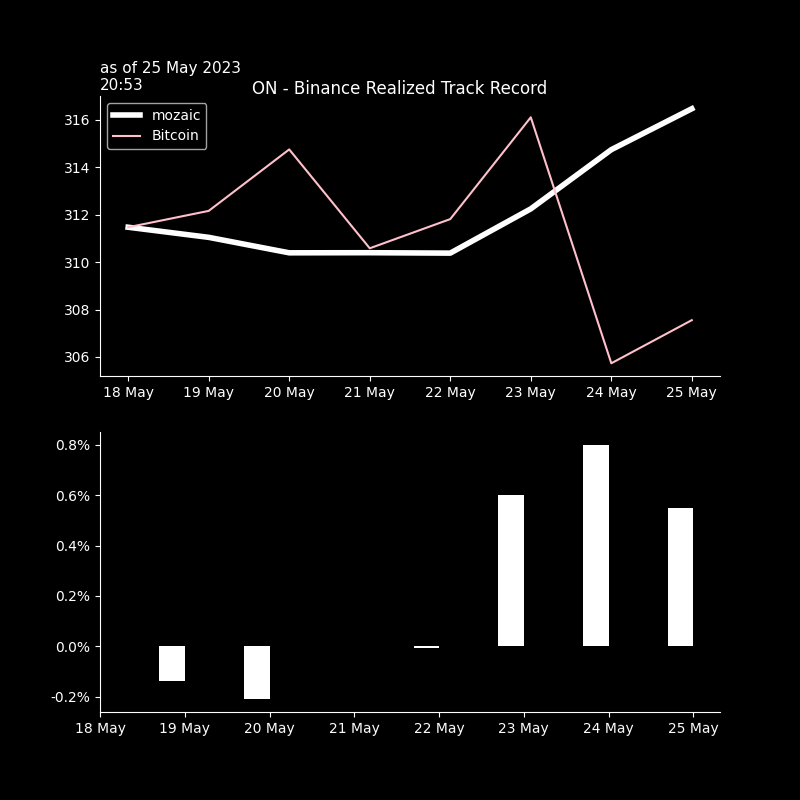
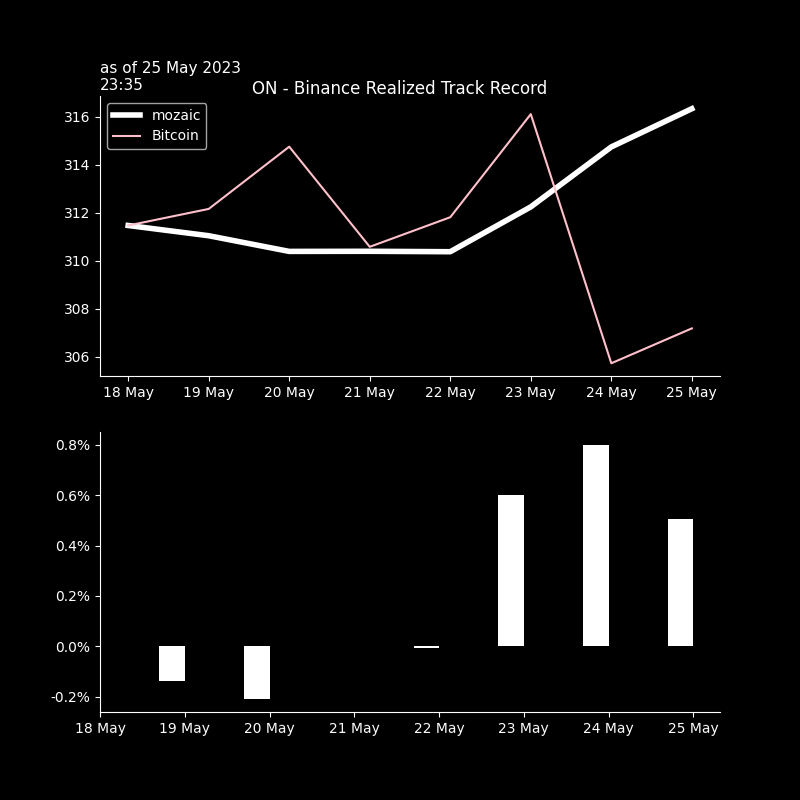
seb_commit

diff --git a/crypto/graphs/bt_trades_book.htmltrade_trades_book.html b/crypto/graphs/bt_trades_book.htmltrade_trades_book.html
@@ -37,55 +37,55 @@
   </thead>
   <tbody>
     <tr>
-      <th>ETHUSDT</th>
-      <td>1806.3000</td>
-      <td>2023-05-25 18:35:03</td>
-      <td>0.087</td>
-      <td>$157.1</td>
-      <td>$0.03</td>
-      <td>2.0</td>
-      <td>0.0</td>
-      <td>1804.51500</td>
-      <td>2023-05-25 19:32</td>
-      <td>-0.2</td>
-      <td>-10.0</td>
-      <td>1804.84</td>
-      <td>-0.1</td>
-      <td>-8.0</td>
-    </tr>
-    <tr>
       <th>XRPUSDT</th>
-      <td>0.4488</td>
-      <td>2023-05-25 18:36:00</td>
-      <td>351.000</td>
-      <td>$157.5</td>
-      <td>$0.03</td>
+      <td>0.4527</td>
+      <td>2023-05-25 22:35:01</td>
+      <td>-438.500</td>
+      <td>$-198.5</td>
+      <td>$0.04</td>
       <td>2.0</td>
-      <td>0.0</td>
-      <td>0.44845</td>
-      <td>2023-05-25 19:32</td>
+      <td>1.4</td>
+      <td>0.45285</td>
+      <td>2023-05-25 23:31</td>
       <td>-0.1</td>
-      <td>-8.0</td>
-      <td>.4487</td>
+      <td>-4.0</td>
+      <td>.4528</td>
       <td>-0.0</td>
-      <td>-3.0</td>
+      <td>-2.0</td>
     </tr>
     <tr>
       <th>BTCUSDT</th>
-      <td>26376.7000</td>
-      <td>2023-05-25 18:35:03</td>
-      <td>0.006</td>
-      <td>$158.3</td>
+      <td>26446.7000</td>
+      <td>2023-05-25 22:33:02</td>
+      <td>-0.006</td>
+      <td>$-158.7</td>
       <td>$0.03</td>
       <td>2.0</td>
-      <td>0.0</td>
-      <td>26366.35000</td>
-      <td>2023-05-25 19:32</td>
+      <td>0.4</td>
+      <td>26453.65000</td>
+      <td>2023-05-25 23:31</td>
+      <td>-0.0</td>
+      <td>-3.0</td>
+      <td>26431.6</td>
+      <td>0.1</td>
+      <td>6.0</td>
+    </tr>
+    <tr>
+      <th>ETHUSDT</th>
+      <td>1806.1200</td>
+      <td>2023-05-25 22:33:40</td>
+      <td>-0.087</td>
+      <td>$-157.1</td>
+      <td>$0.03</td>
+      <td>2.0</td>
+      <td>-0.0</td>
+      <td>1806.84500</td>
+      <td>2023-05-25 23:31</td>
       <td>-0.1</td>
       <td>-4.0</td>
-      <td>26353.1</td>
-      <td>-0.1</td>
-      <td>-9.0</td>
+      <td>1805.61</td>
+      <td>0.0</td>
+      <td>3.0</td>
     </tr>
   </tbody>
 </table>

diff --git a/crypto/graphs/bt_trades_pnlD_recap.htmltrade_trades_pnlD_recap.html b/crypto/graphs/bt_trades_pnlD_recap.htmltrade_trades_pnlD_recap.html
@@ -1,7 +1,7 @@
 <table border="1" class="dataframe">
   <thead>
     <tr style="text-align: right;">
-      <th>25 May 19:36</th>
+      <th>25 May 23:35</th>
       <th>realizedPnl</th>
       <th>PnLvsArrival</th>
       <th>PnLvsLast</th>
@@ -10,21 +10,21 @@
   <tbody>
     <tr>
       <th>in$</th>
-      <td>0.0</td>
-      <td>-0.3</td>
-      <td>-0.3</td>
+      <td>1.8</td>
+      <td>-0.2</td>
+      <td>0.1</td>
     </tr>
     <tr>
-      <th>in bp 472 traded</th>
-      <td>0 bp</td>
-      <td>-7 bp</td>
-      <td>-7 bp</td>
+      <th>in bp 514 traded</th>
+      <td>34 bp</td>
+      <td>-3 bp</td>
+      <td>2 bp</td>
     </tr>
     <tr>
-      <th>in bp 314 AUMs</th>
-      <td>0 bp</td>
-      <td>-11 bp</td>
-      <td>-10 bp</td>
+      <th>in bp 316 AUMs</th>
+      <td>56 bp</td>
+      <td>-5 bp</td>
+      <td>3 bp</td>
     </tr>
   </tbody>
 </table>

diff --git a/crypto/graphs/bt_trades_recap.htmltrade_trades_recap.html b/crypto/graphs/bt_trades_recap.htmltrade_trades_recap.html
@@ -9,32 +9,32 @@
   <tbody>
     <tr>
       <th>as of</th>
-      <td>25May 18:35&gt;&gt;18:36</td>
+      <td>25May 22:33&gt;&gt;22:35</td>
       <td>#trades: 3</td>
     </tr>
     <tr>
       <th>trade net</th>
-      <td>+473.0</td>
-      <td>+150.3%</td>
+      <td>-514.0</td>
+      <td>-162.3%</td>
     </tr>
     <tr>
       <th>trade gross</th>
-      <td>+473.0</td>
-      <td>+150.3%</td>
+      <td>+514.0</td>
+      <td>+162.3%</td>
     </tr>
     <tr>
       <th>BUY</th>
-      <td>+473.0</td>
-      <td>+150.3%</td>
-    </tr>
-    <tr>
-      <th>SELL</th>
       <td>+0.0</td>
       <td>+0.0%</td>
     </tr>
     <tr>
+      <th>SELL</th>
+      <td>-514.0</td>
+      <td>-162.3%</td>
+    </tr>
+    <tr>
       <th>fees</th>
-      <td>$ 0.095</td>
+      <td>$ 0.103</td>
       <td>2.0bp</td>
     </tr>
   </tbody>
